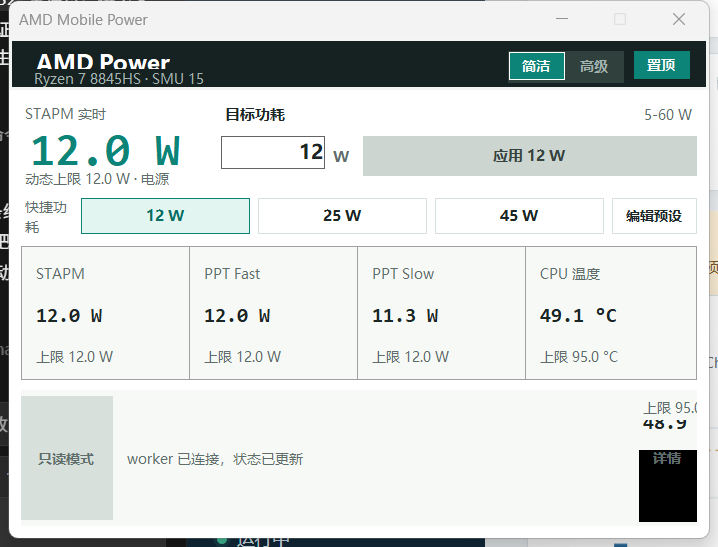
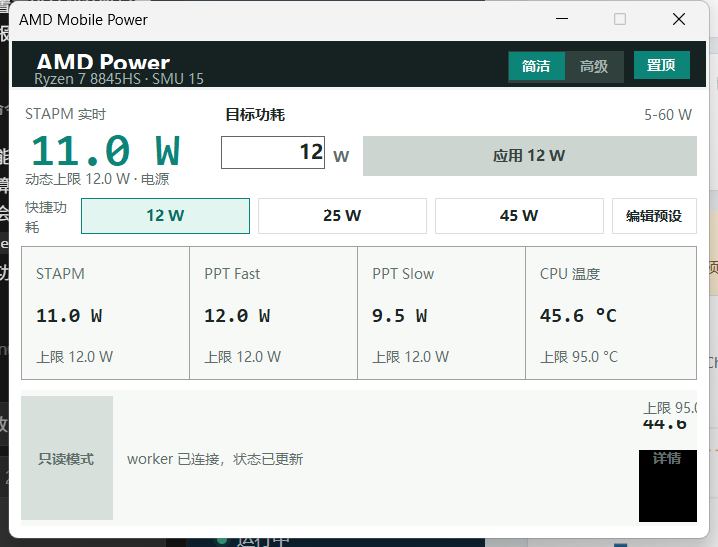
docs: 固化最终 clean 包与托盘退出证据

diff --git a/docs/UI_SCREENSHOT_EVIDENCE.md b/docs/UI_SCREENSHOT_EVIDENCE.md
@@ -14,7 +14,7 @@ Machine-readable evidence:
 | Legacy hardware conflict | `assets/worker-conflict-2026-11-10.png` | `旧版 RyzenAdj 正在占用，退出后再试`, zero worker processes, zero visible boundary violations |
 | Diagnostics export | `assets/diagnostics-export-2026-11-10.png` | Generic diagnostics filename, save type, save/cancel bottom crop; address bar and personal path excluded |
 | Clean-package dashboard | `assets/main-dashboard-clean-package-2026-11-10.png` | Packaged read-only GUI connected to its bundled worker, `动态上限 12.0 W · 电源`, zero visible boundary violations |
-| Tray context menu | `assets/tray-menu-clean-package-2026-11-10.png` | `verify-tray-menu.ps1` found the real hidden-tray icon, opened the upward menu, read 11 items, captured the visible bounds, and closed without invoking an action |
+| Tray context menu | `assets/tray-menu-clean-package-2026-11-10.png` | `verify-tray-menu.ps1` found the real hidden-tray icon, opened the upward anchored menu, read 11 items, captured the visible bounds, invoked Exit, and confirmed no GUI/worker remained |
 
 All screenshots were captured on the development laptop at 125% scaling.
 Coordinates were checked with UI Automation using the root window rectangle, not
@@ -33,7 +33,7 @@ Runtime layout checks also passed for compact and advanced mode:
 - The conflict capture used a temporary `Local\RyzenAdjPowerWorker` mutex and
   did not start a hardware worker.
 - The diagnostics save dialog was cancelled; no diagnostics JSON was written.
-- The tray menu was closed with Escape; no tray action or power-limit write was invoked.
+- The clean-package tray check invoked only Exit; no preset or power-limit write was invoked.
 - The tray screenshot can be reproduced with `verify-tray-menu.ps1` on an
   interactive Windows desktop.
 - No security controls, driver services, or hardware limits were changed.

diff --git a/docs/PACKAGING.md b/docs/PACKAGING.md
@@ -92,10 +92,10 @@ Current `0.1.3-dev` integration candidate:
 artifacts/packages/amd-mobile-power-v0.1.3-dev-win-x64-lite.zip
 ```
 
-- Size: 581,661 bytes.
+- Size: 581,651 bytes.
 - SHA256:
[1 lines of base64/hex data omitted]
-- Source commit: `8cc9d12`.
[1 lines of base64/hex data omitted]
+- Source commit: `27f2757`.
 - Working tree at build time: clean.
 - Framework-dependent and requires the Microsoft .NET 8 Desktop Runtime x64.
 - All 38 staged SHA256 entries verified across 39 files.
@@ -107,6 +107,8 @@ artifacts/packages/amd-mobile-power-v0.1.3-dev-win-x64-lite.zip
 - The clean package itself launched in read-only mode, connected to its bundled
   worker, reported `动态上限 12.0 W · 电源`, and produced zero visible boundary
   violations.
+- The hidden tray menu opened upward, stayed anchored to the notification icon,
+  invoked Exit, and left no GUI or worker process behind.
 - Packed read-only startup passed and launched the packed worker.
 - Packed diagnostics export reported schema 1, protocol 1, `Hawk Point`,
   `hawk-point-8845hs`, nine profiles, five runtime-file hashes, hardware
@@ -237,10 +239,10 @@ GUI/worker teardown.
 The verified local development package uses SHA256:
 
 ```text
[2 lines of base64/hex data omitted]
 ```
 
-It was built from clean commit `8cc9d12`.
+It was built from clean commit `27f2757`.
 
 Rebuilds may produce a different hash because embedded timestamps can change.
 Always use the hash generated with the current build.
